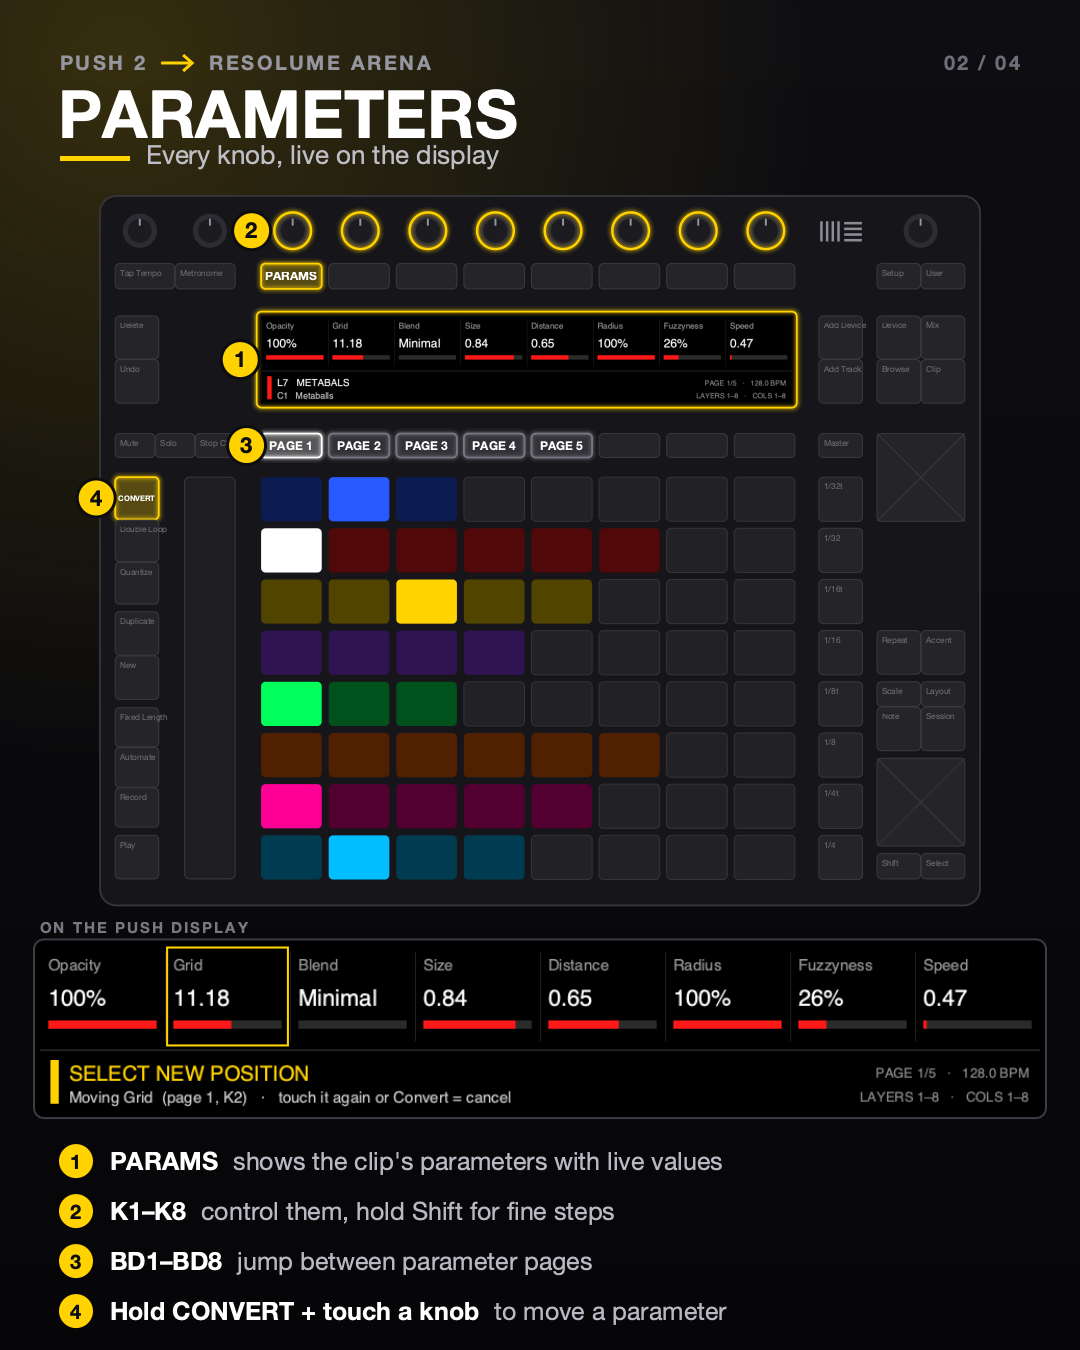
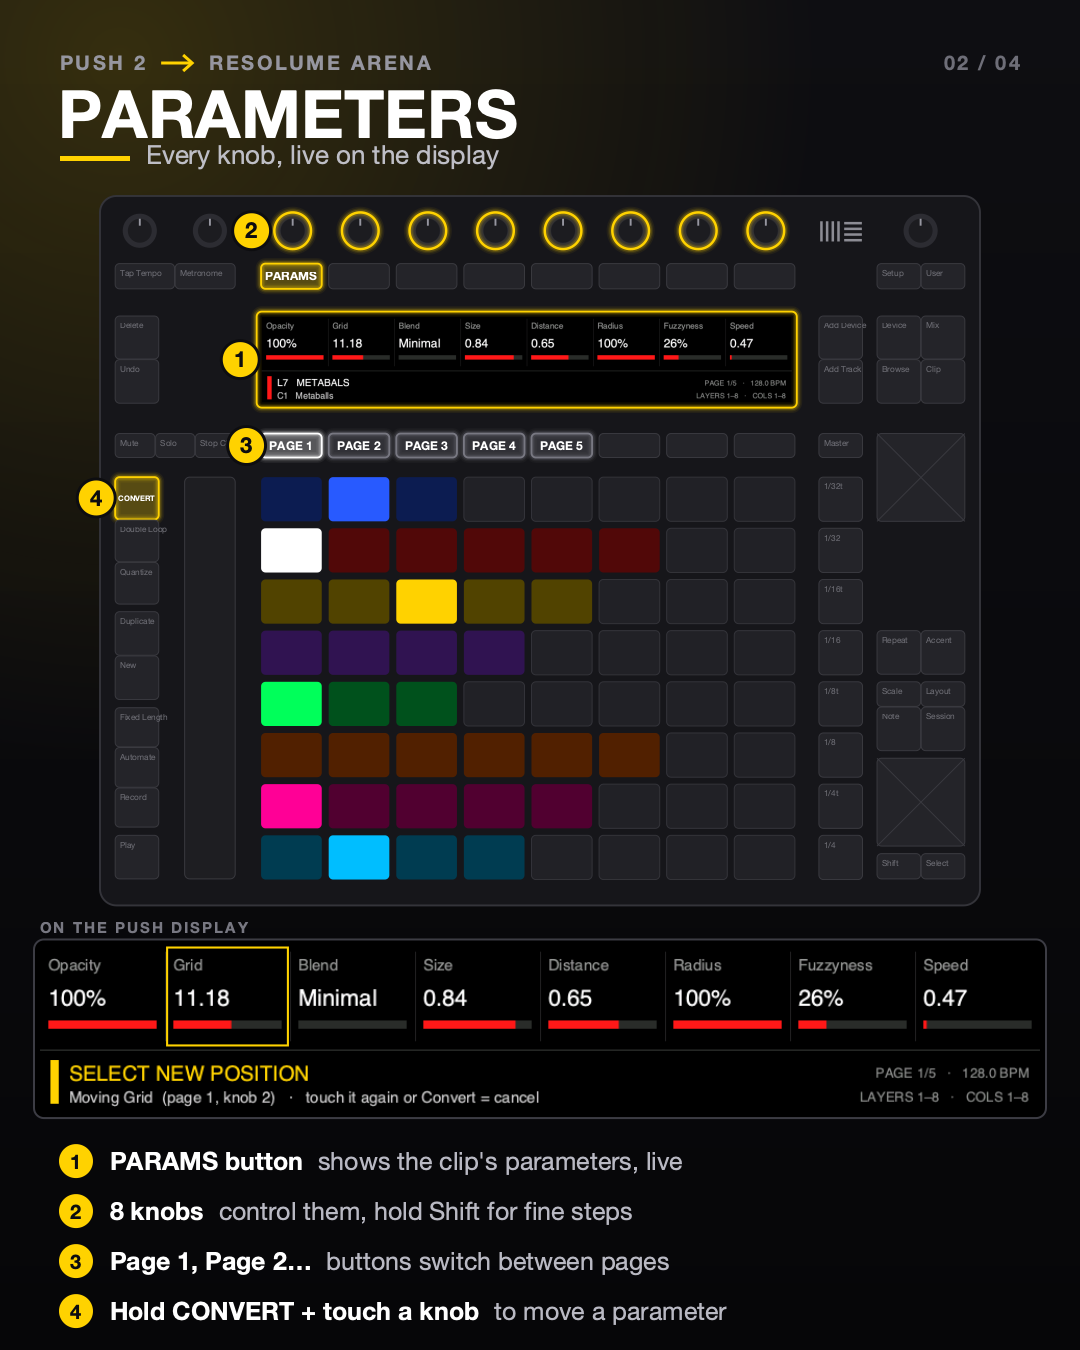
Promo images and on-device hints use plain names (knobs, pages, palette) instead of internal labels

Changed region(s): [[0.0917, 0.8089, 0.6722, 0.9644], [0.55, 0.9333, 0.6111, 0.9644]]

diff --git a/docs/promo/make_promo.py b/docs/promo/make_promo.py
@@ -339,9 +339,9 @@ def main():
          pads(), small, big,
          badges=[(222, 259, 1, YE), (240, 55, 2, YE), (232, 395, 3, YE), (-6, 478, 4, YE)],
          labels={f"Lower Row {k + 1}": f"PAGE {k + 1}" for k in range(8)},
-         bullets=[(1, "PARAMS| shows the clip's parameters with live values"),
-          (2, "K1–K8| control them, hold Shift for fine steps"),
-          (3, "BD1–BD8| jump between parameter pages"),
+         bullets=[(1, "PARAMS button| shows the clip's parameters, live"),
+          (2, "8 knobs| control them, hold Shift for fine steps"),
+          (3, "Page 1, Page 2…| buttons switch between pages"),
           (4, "Hold CONVERT + touch a knob| to move a parameter")])
 
     # 3 — COLORS
@@ -358,10 +358,10 @@ def main():
     page(HERE / "03_colors.png", 3, "COLORS", "Dial in clip colour by hand", MA,
          hl, pads(), d, d,
          [(COLS[1] + 48, 88, 1, MA), (240, 55, 2, MA), (COLS[7] + 50, 104, 3, MA), (232, 395, 4, MA)],
-         [(1, "BU2| opens COLOR for the selected clip"),
-          (2, "K1–K3| Red / Green / Blue,  |K4–K6| Hue / Sat / Brightness"),
-          (3, "K8| picks the colour: Color, BG Color, Colorize…"),
-          (4, "BD1–BD8| Resolume's palette, one press to switch")])
+         [(1, "COLOR button| opens colour control for the clip"),
+          (2, "Knobs| Red / Green / Blue  +  Hue / Sat / Brightness"),
+          (3, "Last knob| picks the colour: Color, BG Color…"),
+          (4, "Palette| buttons, one press for a preset colour")])
 
     # 4 — MIX & TEMPO
     br.mode = "mix"
@@ -370,10 +370,10 @@ def main():
          {"Mix": GR, "K11": GR, "K10": YE, "Tap Tempo": YE, **{f"K{k}": GR for k in range(1, 9)}},
          pads(), d, d,
          [(1334, 170, 1, GR), (240, 55, 2, GR), (1238, 55, 3, GR), (-6, 90, 4, YE)],
-         [(1, "MIX| opens the mixer"),
-          (2, "K1–K8| layer masters, top layer first"),
-          (3, "K11| composition master"),
-          (4, "TAP TEMPO| sets the BPM,  |K10| fine-tunes it")])
+         [(1, "MIX button| opens the mixer"),
+          (2, "8 knobs| one master per layer, top layer first"),
+          (3, "Master knob| composition master"),
+          (4, "TAP TEMPO| sets the BPM,  |Tempo knob| fine-tunes it")])
 
 
 if __name__ == "__main__":

diff --git a/push_resolume_bridge.py b/push_resolume_bridge.py
@@ -947,7 +947,7 @@ def render(snap, bgr=True):
         say(114, 151, f"L{snap['L']} C{snap['C']}   {snap['clip_name'] or '—'}", 520)
         col((140, 140, 140)); font(13)
         say(950, 127, snap["bpm"], right=True)
-        say(950, 150, "FINE" if snap["shift"] else "BD1–8 = palette", right=True)
+        say(950, 150, "FINE" if snap["shift"] else "PALETTE BELOW", right=True)
     elif snap["mode"] == "mix":
         for k in range(8):
             x = k * 120
@@ -1012,7 +1012,7 @@ def render(snap, bgr=True):
             font(20, True)
             say(28, 130, "SELECT NEW POSITION")
             col((200, 200, 200)); font(15)
-            say(28, 151, f"Moving {mv['label']}  (page {mv['page'] + 1}, K{mv['col'] + 1})"
+            say(28, 151, f"Moving {mv['label']}  (page {mv['page'] + 1}, knob {mv['col'] + 1})"
                          "   ·   touch it again or Convert = cancel", 560)
         else:
             col(accent); ctx.rectangle(10, 110, 8, 42); ctx.fill()
